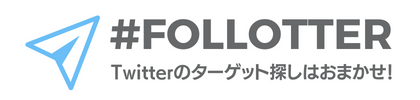
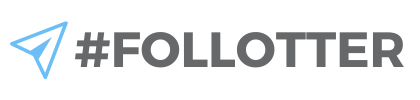
Add: デザインのアップデート (#68)

Changed region(s): [[0.0, 0.15, 0.9595, 0.9]]

diff --git a/app/assets/stylesheets/application.scss b/app/assets/stylesheets/application.scss
@@ -14,6 +14,8 @@
  *= require_self
  */
 
+/*header*/
+
 .header {
   position: fixed;
   color: #727272;
@@ -22,9 +24,11 @@
   width: 100%;
   overflow: hidden;
   box-shadow: 0 1px 4px rgba(0,0,0,0.3);
+  z-index: 2;
+  font-family: 'Zen Kaku Gothic New', sans-serif;
 }
 
-.icon-top {
+.follotter_icon {
   width: 100%;
   max-width: 200px;
 }
@@ -34,13 +38,56 @@
   color: #727272 ;
 }
 
-.top-wrapper {
-  padding: 100px 10px 10px 50px;
+/*application*/
+
+.body {
+  background-color: #F5F8F9;
+  font-family: 'Zen Kaku Gothic New', sans-serif;
+}
+
+/*top*/
+
+.main{
+  z-index: 1;
+}
+
+.wrapper {
+  padding: 100px 10px 10px;
+}
+
+.list-group li {
+  padding-top: 20px;
+  padding-bottom: 20px;
+  line-height: 2;
+}
+
+.top-text {
+  line-height:200%;
 }
 
 .start-button {
-  padding: 20px 50px;
+  padding: 10px 50px;
 }
+
+.how-to-icon {
+  max-width: 80%;
+  max-height: 80%;
+}
+
+/*index*/
+
+.results_text {
+  display: inline-block;
+  color: #888888;
+}
+
+.form-group {
+  padding-top: 10px;
+  padding-bottom: 10px;
+  line-height: 1;
+}
+
+/*footter*/
 
 .footer {
   position: fixed;

diff --git a/app/javascript/packs/application.js b/app/javascript/packs/application.js
@@ -9,6 +9,7 @@ import * as ActiveStorage from "@rails/activestorage"
 import "channels"
 import "bootstrap";
 import "../stylesheets/application.scss";
+import "@fortawesome/fontawesome-free/js/all";
 
 Rails.start()
 Turbolinks.start()

diff --git a/app/javascript/stylesheets/application.scss b/app/javascript/stylesheets/application.scss
@@ -1,1 +1,3 @@
 @import "~bootstrap/scss/bootstrap.scss";
+@import '@fortawesome/fontawesome-free/scss/v4-shims';
+@import url('https://fonts.googleapis.com/css2?family=Zen+Kaku+Gothic+New:wght@300;400;500;700&display=swap');

diff --git a/app/controllers/following_candidates_controller.rb b/app/controllers/following_candidates_controller.rb
@@ -10,7 +10,7 @@ class FollowingCandidatesController < ApplicationController
       followers_count_less = params[:followers_count_less].presence || 1000000000
       friends_count_over = params[:friends_count_over]
       friends_count_less = params[:friends_count_less].presence || 1000000000
-      created_at = params[:created_at].presence || "1000-01-03 01:10:00 +0900"
+      created_at = params[:created_at].presence || "1000-01-03 01:10:00 +0000"
       keyword = params[:keyword]
       next_cursor = params[:next_cursor]
 
@@ -19,13 +19,12 @@ class FollowingCandidatesController < ApplicationController
       @next_cursor = @followers_result["next_cursor"]
       @followers = @followers_result["users"]
       @followers.reject!{|x| x["id_str"].in?(@following)}
-
       @results = @followers.find_all{
         |x| x["followers_count"].to_i >= followers_count_over.to_i && 
             x["followers_count"].to_i <= followers_count_less.to_i && 
             x["friends_count"].to_i >= friends_count_over.to_i && 
             x["friends_count"].to_i <= friends_count_less.to_i && 
-            x["created_at"] >= created_at && 
+            x["created_at"].in_time_zone('Tokyo').strftime('%Y/%m/%d') >= created_at && 
             x["description"].include?(keyword)
       }
     end

diff --git a/app/services/get_followers_service.rb b/app/services/get_followers_service.rb
@@ -21,7 +21,7 @@ class GetFollowersService
       screen_name: "#{@screen_name}",
       skip_status: "true",
       include_user_entities: "false",
-      count: 3
+      count: 100
     }
     if @next_cursor.blank?
       @create_optional_params

diff --git a/app/services/get_following_service.rb b/app/services/get_following_service.rb
@@ -17,7 +17,7 @@ class GetFollowingService
 
   def create_optional_params
     @create_optional_params ||= {
-      max_results: 10
+      max_results: 1000
     }
     if @next_token.blank?
       @create_optional_params
